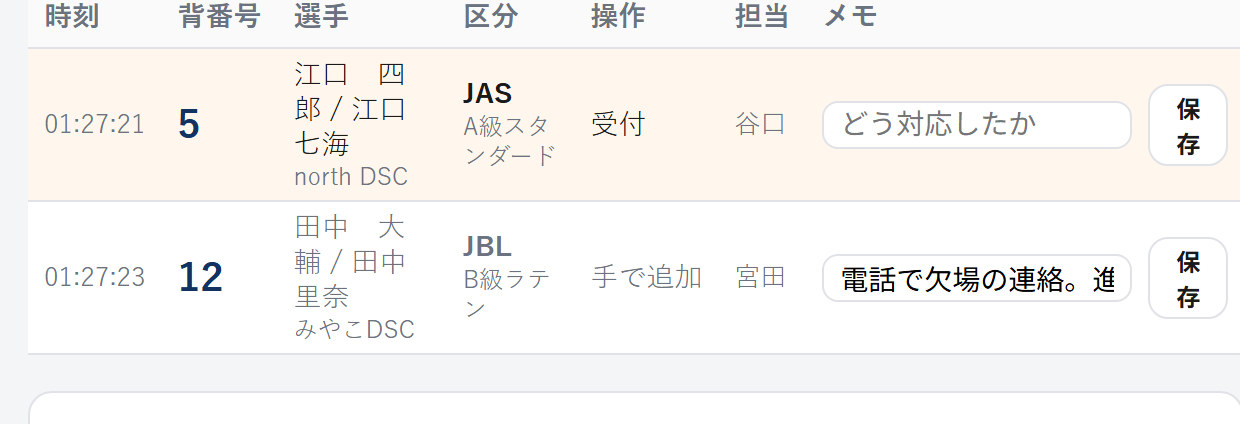
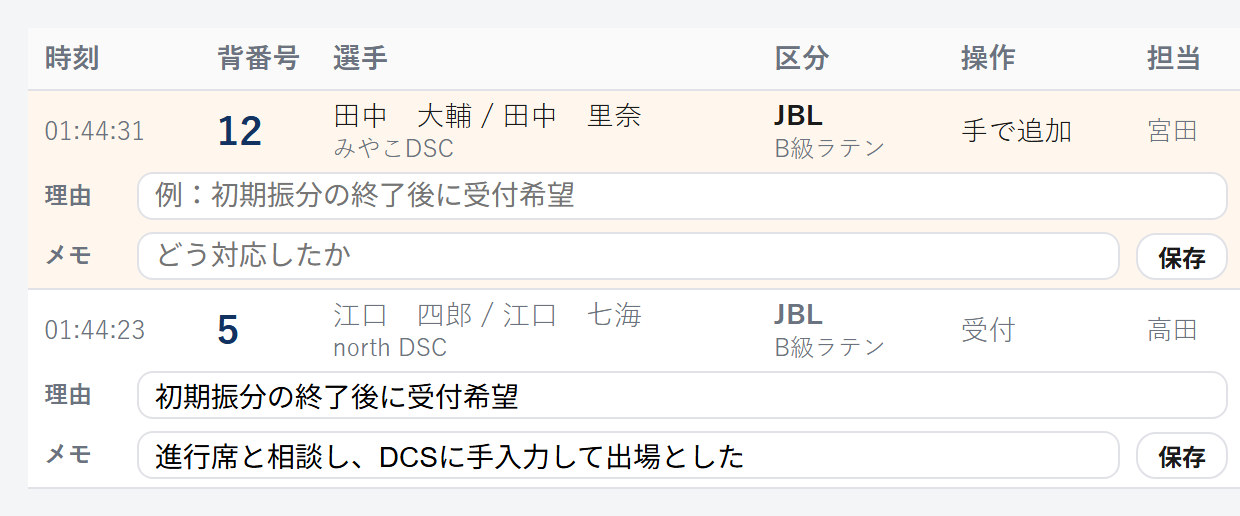
feat(uketsuke): 手動対応に「理由」の欄を足し、1件を2行で出す
1行に押し込んでいたので、メモの欄が狭く、なぜ手動対応が要るのかを書く場所も
無かった。1件を2行にし、上の行を「いつ・誰が・どの組のどの区分か」、下の行を
全幅の「理由」と「メモ」にした。

  理由 : なぜ手動対応が要るのか（例：初期振分の終了後に受付希望）
  メモ : どう対応したか（これが入っていれば対応済み扱い。今までどおり）

2つは保存ボタンひとつでまとめて記録する。印刷にも両方を文字で出す。

diff --git a/uketsuke.html b/uketsuke.html
@@ -36,8 +36,13 @@
   #mn-list td:nth-child(1),#mn-list td:nth-child(5),#mn-list td:nth-child(6){white-space:nowrap}
   #mn-list td:first-child{font-size:13px;color:var(--muted)}
   #mn-list td:nth-child(2){font-size:20px;font-weight:800;color:var(--primary);width:1%}
-  #mn-list td:nth-child(7){width:36%}
-  #mn-list .mn-note{width:100%;min-width:90px}
+  /* 1件を2行で出す。上の行が誰のどの区分か、下の行が理由とメモ（広く書けるように全幅） */
+  #mn-list tr.mn-r1 td{border-bottom:none;padding-bottom:2px}
+  #mn-list tr.mn-r2 td{padding-top:2px}
+  #mn-list .mn-fields{display:flex;flex-direction:column;gap:6px}
+  #mn-list .mn-line{display:flex;align-items:center;gap:8px}
+  #mn-list .mn-lab{flex:none;width:3.2em;font-size:12px;color:var(--muted);font-weight:700}
+  #mn-list .mn-note,#mn-list .mn-reason{flex:1 1 auto;width:100%}
   #mn-list .mn-ev{font-weight:700}
   #mn-list .mn-sub{display:block;font-size:12px;color:var(--muted)}
   #v-manual th{white-space:nowrap}
@@ -360,11 +365,11 @@
       <div class="print-only" id="mn-print-head"></div>
       <p class="muted no-print">
         ST初期振分が済んだあとに受付・取消をしようとして止まった件が、ここに自動でたまります。
-        対応したら、どうしたかを<b>メモ</b>に書いてください。書いた件は対応済みになり、タブの件数から外れます。
+1件ごとに<b>理由</b>（なぜ手動対応が要るのか）と<b>メモ</b>（どう対応したか）を書けます。
+        <b>メモを書いた件は対応済み</b>になり、タブの件数から外れます。
       </p>
       <table class="dense">
-        <thead><tr><th>時刻</th><th>背番号</th><th>選手</th><th>区分</th><th>操作</th><th>担当</th>
-          <th>メモ</th></tr></thead>
+        <thead><tr><th>時刻</th><th>背番号</th><th>選手</th><th>区分</th><th>操作</th><th>担当</th></tr></thead>
         <tbody id="mn-list"></tbody>
       </table>
 
@@ -1386,7 +1391,10 @@ function renderManual(){
     var ev = (DATA.events || []).filter(function(e){ return e.code === m.code; })[0] || {code:m.code};
     var note = String(m.note || '');
     var key = ' data-bib="' + esc(m.bib) + '" data-code="' + esc(m.code) + '"';
-    return '<tr class="' + (note.trim() ? 'mn-done' : 'mn-todo') + '">'
+    var cls = note.trim() ? 'mn-done' : 'mn-todo';
+    var reason = String(m.reason || '');
+    /* 1件目の行は「誰のどの区分か」、2行目は理由とメモ。1行では書ききれないため。 */
+    return '<tr class="' + cls + ' mn-r1">'
       + '<td>' + esc(fmtTime(m.last_at || m.at))
       + (m.count > 1 ? ' <span class="muted">' + m.count + '回</span>' : '') + '</td>'
       + '<td><b>' + esc(m.bib) + '</b></td>'
@@ -1396,21 +1404,28 @@ function renderManual(){
       + (ev.name && ev.name !== m.code ? '<span class="mn-sub">' + esc(ev.name) + '</span>' : '') + '</td>'
       + '<td>' + esc(MN_KIND[m.kind] || m.kind || '') + '</td>'
       + '<td class="muted">' + esc(m.by || '') + '</td>'
-      + '<td><span class="row no-print">'
-      + '<input type="text" class="mn-note"' + key + ' value="' + esc(note) + '" placeholder="どう対応したか">'
-      + '<button type="button" class="small secondary mn-save"' + key + '>保存</button></span>'
-      + '<span class="print-only">' + esc(note) + '</span></td>'
-      + '</tr>';
-  }).join('') || '<tr><td colspan="7" class="muted">ありません</td></tr>';
+      + '</tr>'
+      + '<tr class="' + cls + ' mn-r2">'
+      + '<td colspan="6"><div class="mn-fields">'
+      + '<div class="mn-line no-print"><span class="mn-lab">理由</span>'
+      + '<input type="text" class="mn-reason"' + key + ' value="' + esc(reason) + '"'
+      + ' placeholder="例：初期振分の終了後に受付希望"></div>'
+      + '<div class="mn-line no-print"><span class="mn-lab">メモ</span>'
+      + '<input type="text" class="mn-note"' + key + ' value="' + esc(note) + '"'
+      + ' placeholder="どう対応したか">'
+      + '<button type="button" class="small secondary mn-save"' + key + '>保存</button></div>'
+      + '<div class="print-only">理由：' + esc(reason) + '　メモ：' + esc(note) + '</div>'
+      + '</div></td></tr>';
+  }).join('') || '<tr><td colspan="6" class="muted">ありません</td></tr>';
 
   el('mn-list').querySelectorAll('.mn-save').forEach(function(btn){
     btn.addEventListener('click', function(){ saveManualNote(btn); });
   });
-  el('mn-list').querySelectorAll('.mn-note').forEach(function(inp){
+  el('mn-list').querySelectorAll('.mn-note,.mn-reason').forEach(function(inp){
     inp.addEventListener('keydown', function(e){
       if (e.key === 'Enter' || e.keyCode === 13) {
         e.preventDefault();
-        saveManualNote(inp.parentElement.querySelector('.mn-save'));
+        saveManualNote(inp.closest('td').querySelector('.mn-save'));
       }
     });
   });
@@ -1424,10 +1439,12 @@ function renderManual(){
 }
 function saveManualNote(btn){
   if (!btn) return;
-  var inp = btn.parentElement.querySelector('.mn-note');
+  var cell = btn.closest('td');
+  var note = cell.querySelector('.mn-note');
+  var reason = cell.querySelector('.mn-reason');
   btn.disabled = true;
   post('api/uketsuke_manual.php', {id:COMP.id, op:'note', bib:btn.dataset.bib, code:btn.dataset.code,
-                                   note:inp.value, by:el('by').value})
+                                   reason:reason.value, note:note.value, by:el('by').value})
     .then(function(){ return refresh().then(renderManual); })
     .catch(function(e){ btn.disabled = false; alert(e.message); });
 }

diff --git a/uketsuke-manual.html b/uketsuke-manual.html
@@ -500,13 +500,16 @@
 
 <figure>
   <img src="images/uketsuke-manual/18_manual.jpg" alt="手動対応の一覧">
-  <figcaption>止まった件が、いつ・誰が・どの組のどの区分で止まったかとともに残ります。まだ対応していない件は色が付きます。</figcaption>
+  <figcaption>1件が2行で出ます。上の行がいつ・誰が・どの組のどの区分か、下の行が<b>理由</b>と<b>メモ</b>です。まだ対応していない件は色が付きます。</figcaption>
 </figure>
 
 <ol class="steps">
   <li><b>未対応の件が上に出ます</b>　タブにも <b>手動対応 2</b> のように件数が出るので、残っていることに気づけます。</li>
-  <li><b>対応したらメモに書きます</b>　「DCSに手入力した」「欠場のまま」など、どうしたかを書いて
-      <span class="btn-sub">保存</span>を押します。<b>書いた件は対応済みになり、タブの件数から外れます</b>。
+  <li><b>理由を書きます</b>　1件ごとに2行目の<b>理由</b>の欄に、なぜ手動対応が要るのかを書きます
+      （例：<b>初期振分の終了後に受付希望</b>）。</li>
+  <li><b>対応したらメモに書きます</b>　「進行席と相談し、DCSに手入力して出場とした」「欠場のまま」など、
+      どうしたかを<b>メモ</b>の欄に書いて<span class="btn-sub">保存</span>を押します。
+      理由とメモは一緒に保存されます。<b>メモを書いた件は対応済みになり、タブの件数から外れます</b>。
       消せばまた未対応に戻ります。</li>
   <li><b>手で足すこともできます</b>　電話で欠場の連絡が来たときなど、システムが止めていない件も
       背番号と区分を選んで<span class="btn-name">追加</span>できます。</li>

diff --git a/api/_uketsuke.php b/api/_uketsuke.php
@@ -273,7 +273,8 @@ function uk_load_assign($id) {
 /* 手動対応が要る件（初期振分が済んだあとに受付・取消をしようとして止まった件）。
    その場の画面に出すだけでは伝え漏れるので、止まった時点で1行残して一覧で片づける。
    同じ「背番号:区分」は1件にまとめ、回数と最後の時刻を持つ。
-   メモ（manual_note）が入った件は対応済みとして扱う。 */
+   1件につき「なぜ手動対応が要るのか（reason）」と「どう対応したか（note）」を持つ。
+   メモ（note）が入った件は対応済みとして扱う。 */
 function uk_load_manual($id) {
     $file = uk_checkins_file($id);
     if (!is_file($file)) return [];
@@ -298,7 +299,7 @@ function uk_load_manual($id) {
             if (!isset($map[$key])) {
                 $map[$key] = ['bib' => $bib, 'code' => $code, 'kind' => (string)($rec['kind'] ?? ''),
                               'at' => $at, 'last_at' => $at, 'by' => $by, 'count' => 1,
-                              'note' => '', 'note_at' => '', 'note_by' => ''];
+                              'reason' => '', 'note' => '', 'note_at' => '', 'note_by' => ''];
             } else {
                 $map[$key]['count']++;
                 $map[$key]['last_at'] = $at;
@@ -310,9 +311,10 @@ function uk_load_manual($id) {
         if (!isset($map[$key])) {
             $map[$key] = ['bib' => $bib, 'code' => $code, 'kind' => 'add',
                           'at' => $at, 'last_at' => $at, 'by' => $by, 'count' => 0,
-                          'note' => '', 'note_at' => '', 'note_by' => ''];
+                          'reason' => '', 'note' => '', 'note_at' => '', 'note_by' => ''];
         }
-        $map[$key]['note']    = uk_str($rec['note'] ?? '', 200);
+        $map[$key]['reason']  = uk_str($rec['reason'] ?? '', 300);
+        $map[$key]['note']    = uk_str($rec['note'] ?? '', 300);
         $map[$key]['note_at'] = $at;
         $map[$key]['note_by'] = $by;
     }

diff --git a/api/uketsuke_manual.php b/api/uketsuke_manual.php
@@ -4,7 +4,7 @@
    uketsuke_checkin.php / uketsuke_uncheckin.php が書く。
    チェックインと同じ追記方式なので、複数端末で同時に操作しても記録が壊れない。
      op=add  : 背番号と区分を指定して1件足す（電話で欠場連絡が来たときなど）
-     op=note : その件のメモを書く（メモが入った件は対応済みとして扱う。空にすると未対応へ戻る） */
+     op=note : その件の「理由」と「メモ」を書く（メモが入った件は対応済みとして扱う。空にすると未対応へ戻る） */
 require __DIR__ . '/_uketsuke.php';
 require_auth_any(['admin', 'build', 'uketsuke']);
 
@@ -44,10 +44,13 @@ if ($op === 'add') {
 }
 
 if ($op === 'note') {
-    $note = uk_str($_POST['note'] ?? '', 200);
+    /* reason = なぜ手動対応が要るのか（例：初期振分の終了後に受付希望）
+       note   = どう対応したか。note が入っていれば対応済みとして扱う。 */
+    $reason = uk_str($_POST['reason'] ?? '', 300);
+    $note   = uk_str($_POST['note'] ?? '', 300);
     uk_append_checkin($id, ['action' => 'manual_note', 'bib' => $bib, 'code' => $code,
-                            'note' => $note, 'at' => uk_now(), 'by' => $by]);
-    json_out(['ok' => true, 'bib' => $bib, 'code' => $code, 'note' => $note]);
+                            'reason' => $reason, 'note' => $note, 'at' => uk_now(), 'by' => $by]);
+    json_out(['ok' => true, 'bib' => $bib, 'code' => $code, 'reason' => $reason, 'note' => $note]);
 }
 
 json_out(['error' => 'op が不正です'], 400);
